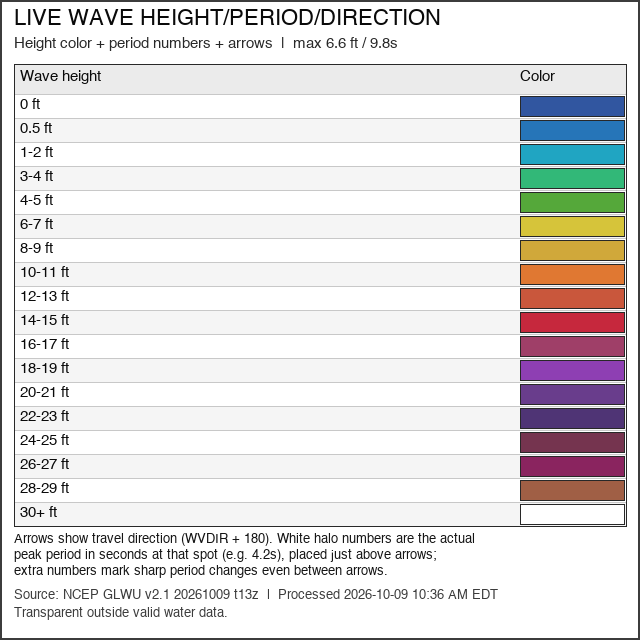
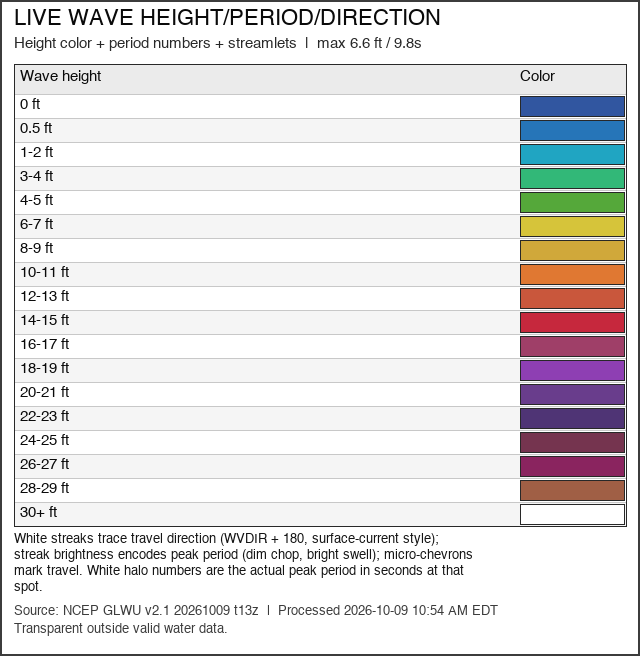
Wave combined: streamlet direction style live by default (surface-current technique, brightness = period)

Changed region(s): [[0.0, 0.0, 1.0, 0.9688], [0.3438, 0.0, 0.4375, 0.0312], [0.125, 0.0, 0.1875, 0.0312]]

diff --git a/scripts/build_wave_combined.py b/scripts/build_wave_combined.py
@@ -176,6 +176,165 @@ def compass(deg):
     return pts[int(((float(deg) % 360) + 22.5) // 45)]
 
 
+# ------------------------------------------------- streamlet direction style
+# EXPERIMENTAL port of the surface-currents streak technique
+# (trace_streamline / paint_flow_arrows in build_surface_currents.py — that
+# file is never touched) applied to the WAVE travel field: white RK2
+# streamlets follow the toward-travel vector, brightness encodes peak
+# period (dim chop -> bright swell), micro-chevrons mark direction.
+
+
+def _sample_uv(y, x, uu, vv):
+    """Bilinear (U,V) at fractional canvas coords; (nan, nan) at land."""
+    H, W = uu.shape
+    if not (0.0 <= y <= H - 1.001 and 0.0 <= x <= W - 1.001):
+        return (float("nan"), float("nan"))
+    y0, x0 = int(y), int(x)
+    y1, x1 = min(y0 + 1, H - 1), min(x0 + 1, W - 1)
+    fy, fx = y - y0, x - x0
+    try:
+        u = (uu[y0, x0] * (1 - fx) + uu[y0, x1] * fx) * (1 - fy) + \
+            (uu[y1, x0] * (1 - fx) + uu[y1, x1] * fx) * fy
+        v = (vv[y0, x0] * (1 - fx) + vv[y0, x1] * fx) * (1 - fy) + \
+            (vv[y1, x0] * (1 - fx) + vv[y1, x1] * fx) * fy
+    except IndexError:
+        return (float("nan"), float("nan"))
+    if not (np.isfinite(u) and np.isfinite(v)):
+        return (float("nan"), float("nan"))
+    return (float(u), float(v))
+
+
+def _trace_streamline(sy, sx, uu, vv, ds=3.0, max_steps=40, min_speed=0.3):
+    path = []
+    y, x = float(sy), float(sx)
+    px, py = None, None
+    for _ in range(max_steps):
+        u, v = _sample_uv(y, x, uu, vv)
+        sp = math.hypot(u, v)
+        if not math.isfinite(sp) or sp < min_speed:
+            break
+        dx, dy = u / sp, -v / sp
+        mx, my = x + dx * ds / 2.0, y + dy * ds / 2.0
+        u2, v2 = _sample_uv(my, mx, uu, vv)
+        sp2 = math.hypot(u2, v2)
+        if not math.isfinite(sp2) or sp2 < min_speed:
+            break
+        ax, ay = dx + u2 / sp2, dy + (-v2 / sp2)
+        n = math.hypot(ax, ay)
+        if n < 1e-9:
+            break
+        ax, ay = ax / n, ay / n
+        if px is not None and (ax * px + ay * py) < 0.3:
+            break
+        x, y = x + ax * ds, y + ay * ds
+        if not (8 <= y < uu.shape[0] - 8 and 8 <= x < uu.shape[1] - 8):
+            break
+        path.append((y, x, ax, ay))
+        px, py = ax, ay
+    return path
+
+
+def paint_wave_streamlets(rgba, uu, vv, period_field, seed_step=11,
+                          ds=3.0, max_steps=40, min_speed=0.3,
+                          sep_px=3.0, head_every=2, head_sep_px=5.0,
+                          line_width=1, head_alpha=230, head_len=4.0):
+    """RK2 streamlets through the wave-travel field, brightness = period.
+
+    Dim streaks = short chop, bright streaks = long swell; micro-chevrons
+    mark travel direction. Fully rasterized (no KML vectors). Returns
+    (rgba, n_streamlets, n_heads).
+    """
+    H, W = uu.shape
+    rng = np.random.default_rng(7)
+    base = Image.fromarray(rgba, mode="RGBA")
+    base_alpha = rgba[:, :, 3]
+    overlay = Image.new("RGBA", (W, H), (0, 0, 0, 0))
+    d = ImageDraw.Draw(overlay)
+    n_lines = n_heads = accepted = 0
+    covered = np.zeros((H, W), bool)
+    placed = np.zeros((H, W), bool)
+    rr, cc = np.ogrid[:H, :W]
+
+    def claim(path, sep):
+        s = int(math.ceil(sep))
+        for (y, x, _ax, _ay) in path[::3]:
+            r0, r1 = max(0, int(y) - s), min(H, int(y) + s + 1)
+            c0, c1 = max(0, int(x) - s), min(W, int(x) + s + 1)
+            dy = rr[r0:r1, 0:1] - y
+            dx = cc[0:1, c0:c1] - x
+            covered[r0:r1, c0:c1][(dy * dy + dx * dx) <= sep * sep] = True
+
+    def clear_for_head(y, x, sep):
+        s = int(math.ceil(sep))
+        r0, r1 = max(0, int(y) - s), min(H, int(y) + s + 1)
+        c0, c1 = max(0, int(x) - s), min(W, int(x) + s + 1)
+        dy = rr[r0:r1, 0:1] - y
+        dx = cc[0:1, c0:c1] - x
+        win = placed[r0:r1, c0:c1]
+        hit = (dy * dy + dx * dx) <= sep * sep
+        if bool((win & hit).any()):
+            return False
+        win[hit] = True
+        return True
+
+    for r0 in range(0, H, seed_step):
+        for c0 in range(0, W, seed_step):
+            r = r0 + seed_step / 2.0 + (rng.random() - 0.5) * seed_step * 0.66
+            c = c0 + seed_step / 2.0 + (rng.random() - 0.5) * seed_step * 0.66
+            if not (8 <= r < H - 8 and 8 <= c < W - 8):
+                continue
+            if covered[int(r), int(c)]:
+                continue
+            u0, v0 = _sample_uv(r, c, uu, vv)
+            if not (math.isfinite(u0) and math.hypot(u0, v0) >= min_speed):
+                continue
+            path = _trace_streamline(r, c, uu, vv, ds=ds,
+                                     max_steps=max_steps,
+                                     min_speed=min_speed)
+            if len(path) < 6:
+                continue
+            claim(path, sep_px)
+            pts = [(x, y) for (y, x, _ax, _ay) in path[::2]]
+            if len(pts) < 2:
+                continue
+            if base_alpha[int(path[-1][0]), int(path[-1][1])] == 0:
+                continue
+            pers = [float(period_field[int(y), int(x)])
+                    for (y, x, _a, _b) in path[::4]
+                    if np.isfinite(period_field[int(y), int(x)])]
+            per = sum(pers) / len(pers) if pers else 0.0
+            alpha = int(round(70 + 130 * min(1.0, max(0.0, per) / 10.0)))
+            d.line(pts, fill=(255, 255, 255, alpha), width=line_width)
+            n_lines += 1
+            accepted += 1
+            if accepted % head_every == 0 and len(path) >= 10:
+                y, x, ax, ay = path[-1]
+                if not clear_for_head(y, x, head_sep_px):
+                    continue
+                ang = math.atan2(ay, ax)
+                for s in (1, -1):
+                    ha = ang + s * (math.pi - 0.6)
+                    d.line([(x, y),
+                            (x + math.cos(ha) * head_len,
+                             y + math.sin(ha) * head_len)],
+                           fill=(255, 255, 255, head_alpha), width=1)
+                n_heads += 1
+    del d
+    out = Image.alpha_composite(base, overlay)
+    return np.array(out), n_lines, n_heads
+
+
+def wave_travel_uv(filed_deg, period_s):
+    """(U,V) travel field: filed FROM degrees -> toward unit vector,
+    scaled by peak period (brightness/speed proxy). NaN off-water."""
+    toward = np.radians((np.asarray(filed_deg, dtype=float) + 180.0) % 360.0)
+    per = np.clip(np.asarray(period_s, dtype=float), 0.0, 12.0)
+    ok = np.isfinite(filed_deg) & np.isfinite(period_s)
+    uu = np.where(ok, np.sin(toward) * np.maximum(per, 0.0), np.nan)
+    vv = np.where(ok, np.cos(toward) * np.maximum(per, 0.0), np.nan)
+    return uu, vv
+
+
 # ------------------------------------------------------------------- labels
 # Period values in the SAME arrow style: white fill + dark halo, rasterized
 # into the PNG (no KML vectors). Placed right above arrows + extras where
@@ -476,10 +635,19 @@ def main():
                         help="period-change threshold (s) for extra labels")
         ap.add_argument("--font-size", type=int, default=5,
                         help="period label font size px (default 5)")
+        ap.add_argument("--direction-style", default="stream",
+                        choices=["arrows", "stream"],
+                        help="direction glyphs: classic arrows or "
+                             "surface-current-style streamlets (experimental)")
+        ap.add_argument("--preview-dir", default=None,
+                        help="experimental preview: write current.png + "
+                             "legend.png here instead of promoting to site/")
         args = ap.parse_args()
         return run(local_file=args.local_file, label_every=args.label_every,
                    extra_step=args.extra_step, extra_thresh=args.extra_thresh,
-                   font_size=args.font_size)
+                   font_size=args.font_size,
+                   direction_style=args.direction_style,
+                   preview_dir=args.preview_dir)
     except SystemExit as e:
         raise
     except Exception:
@@ -488,7 +656,7 @@ def main():
 
 
 def run(local_file=None, label_every=2, extra_step=32, extra_thresh=0.5,
-        font_size=5):
+        font_size=5, direction_style="stream", preview_dir=None):
     now = datetime.now(timezone.utc)
     raw_path = os.path.join(RAW_DIR, "glwu_combined_current.grib2")
     used_url, datestr, cycle, stamp = None, None, None, None
@@ -531,7 +699,8 @@ def run(local_file=None, label_every=2, extra_step=32, extra_thresh=0.5,
 
     try:
         return _build(raw_path, used_url, datestr, cycle, source_id,
-                      label_every, extra_step, extra_thresh, font_size)
+                      label_every, extra_step, extra_thresh, font_size,
+                      direction_style, preview_dir)
     except Exception as e:
         traceback.print_exc()
         print(f"[{PRODUCT}] VALIDATION FAILED: {type(e).__name__}: {e}. "
@@ -540,7 +709,8 @@ def run(local_file=None, label_every=2, extra_step=32, extra_thresh=0.5,
 
 
 def _build(raw_path, used_url, datestr, cycle, source_id,
-           label_every, extra_step, extra_thresh, font_size=5):
+           label_every, extra_step, extra_thresh, font_size=5,
+           direction_style="stream", preview_dir=None):
     stage = stage_dir(PRODUCT)
     stage_prod = os.path.join(stage, "site", PRODUCT)
     bounds = load_bounds()
@@ -596,8 +766,35 @@ def _build(raw_path, used_url, datestr, cycle, source_id,
     d_water = np.where(water & np.isfinite(dfield), dfield, np.nan)
     p_water = np.where(water & np.isfinite(pfield), pfield, np.nan)
 
-    # arrows: existing style, verbatim
-    rgba, n_arrows, arrow_pos = paint_arrows(rgba, d_water, step=16)
+    # direction glyphs: classic arrows (default, verbatim) or
+    # experimental surface-current-style streamlets
+    n_lines = n_heads = 0
+    if direction_style == "stream":
+        # circular-safe smoothing, stream mode ONLY (arrows keep the
+        # verbatim nearest-bin dots): average unit vectors, not degrees.
+        _rad = np.radians(np.asarray(d_deg, dtype=float).ravel())
+        _okd = (valid_d & np.isfinite(np.asarray(d_deg, dtype=float).ravel())
+                & (np.asarray(d_deg, dtype=float).ravel() >= 0)
+                & (np.asarray(d_deg, dtype=float).ravel() <= 360))
+        _sinf, _ = bin_to_canvas(rows_d, cols_d, np.sin(_rad), _okd,
+                                 (H, W), splat_radius=2)
+        _cosf, _cnt = bin_to_canvas(rows_d, cols_d, np.cos(_rad), _okd,
+                                    (H, W), splat_radius=2)
+        _dsm = np.degrees(np.arctan2(_sinf, _cosf)) % 360.0
+        _dsm[_cnt == 0] = np.nan
+        _dw_s = np.where(water & (_cnt > 0), _dsm, np.nan)
+        uu, vv = wave_travel_uv(_dw_s, p_water)
+        rgba, n_lines, n_heads = paint_wave_streamlets(rgba, uu, vv, p_water)
+        arrow_pos = []  # no lattice arrows in stream mode
+        # streamlets seed off-lattice: label from the period field on a
+        # coarse water grid instead of arrow anchors
+        H2, W2 = p_water.shape
+        arrow_pos = [(r, c) for r in range(24, H2 - 8, 48)
+                     for c in range(24, W2 - 8, 48)
+                     if np.isfinite(p_water[r, c]) and rgba[r, c, 3] > 0]
+        n_arrows = n_heads
+    else:
+        rgba, n_arrows, arrow_pos = paint_arrows(rgba, d_water, step=16)
     # labels: actual period values, same arrow style, above arrows + extras
     rgba, n_lab, n_extra = paint_period_labels(
         rgba, p_water, arrow_pos, label_every=label_every,
@@ -607,9 +804,17 @@ def _build(raw_path, used_url, datestr, cycle, source_id,
     # arrows near shore can spill 1-2 px onto land: clip alpha back
     rgba[:, :, 3] = np.round(
         rgba[:, :, 3].astype(np.float32) * wm).astype(np.uint8)
+    if preview_dir is not None:
+        os.makedirs(preview_dir, exist_ok=True)
+        save_png(rgba, os.path.join(preview_dir, "current.png"))
+        print(f"[{PRODUCT}] PREVIEW {direction_style}: opaque="
+              f"{int((rgba[:, :, 3] > 0).sum())} streamlets={n_lines} "
+              f"heads={n_heads} period_labels={n_lab}+{n_extra}extra")
+        return 0
     save_png(rgba, os.path.join(stage_prod, "current.png"))
     n_opaque = int((rgba[:, :, 3] > 0).sum())
     print(f"[{PRODUCT}] opaque={n_opaque} arrows={n_arrows} "
+          f"streamlets={n_lines}+{n_heads}heads "
           f"period_labels={n_lab}+{n_extra}extra "
           f"hmax={run_max_ft}ft pmax={run_max_s:.1f}s meandir={mean_deg:.0f}")
     if n_opaque < 5_000:
@@ -619,12 +824,20 @@ def _build(raw_path, used_url, datestr, cycle, source_id,
     if n_lab + n_extra < 20:
         raise ValueError(f"too few period labels ({n_lab}+{n_extra})")
 
-    subtitle = (f"Height color + period numbers + arrows  |  "
+    subtitle = (f"Height color + period numbers + "
+                f"{'streamlets' if direction_style == 'stream' else 'arrows'}  |  "
                 f"max {run_max_ft} ft / {run_max_s:.1f}s")
-    arrow_note = ("Arrows show travel direction (WVDIR + 180). "
-                  "White halo numbers are the actual peak period in seconds "
-                  "at that spot (e.g. 4.2s), placed just above arrows; extra "
-                  "numbers mark sharp period changes even between arrows.")
+    if direction_style == "stream":
+        arrow_note = ("White streaks trace travel direction (WVDIR + 180, "
+                      "surface-current style); streak brightness encodes peak "
+                      "period (dim chop, bright swell); micro-chevrons mark "
+                      "travel. White halo numbers are the actual peak period "
+                      "in seconds at that spot.")
+    else:
+        arrow_note = ("Arrows show travel direction (WVDIR + 180). "
+                      "White halo numbers are the actual peak period in seconds "
+                      "at that spot (e.g. 4.2s), placed just above arrows; extra "
+                      "numbers mark sharp period changes even between arrows.")
     lw, lh = draw_combined_table(
         os.path.join(stage_prod, "legend.png"), CONFIG["title"], subtitle,
         f"Source: NCEP GLWU v2.1 {datestr} t{cycle}z  |  Processed {now_det_str()}",
@@ -652,12 +865,15 @@ def _build(raw_path, used_url, datestr, cycle, source_id,
                            "(20,20,20,235), same as direction arrows; "
                            f"every {label_every}th arrow + extras at "
                            f">= {extra_thresh}s change")
+    meta["direction_style"] = direction_style
     meta["stats"] = {"valid_cells": int(okv.sum()),
                      "max_ft": run_max_ft,
                      "max_period_s": round(float(run_max_s), 2),
                      "mean_direction_deg": round(float(mean_deg), 1),
                      "mean_compass": compass(mean_deg),
                      "arrows_drawn": n_arrows,
+                     "streamlets_drawn": n_lines,
+                     "stream_heads_drawn": n_heads,
                      "period_labels_on_arrows": n_lab,
                      "period_labels_extra": n_extra}
     token = meta["source_version"]
